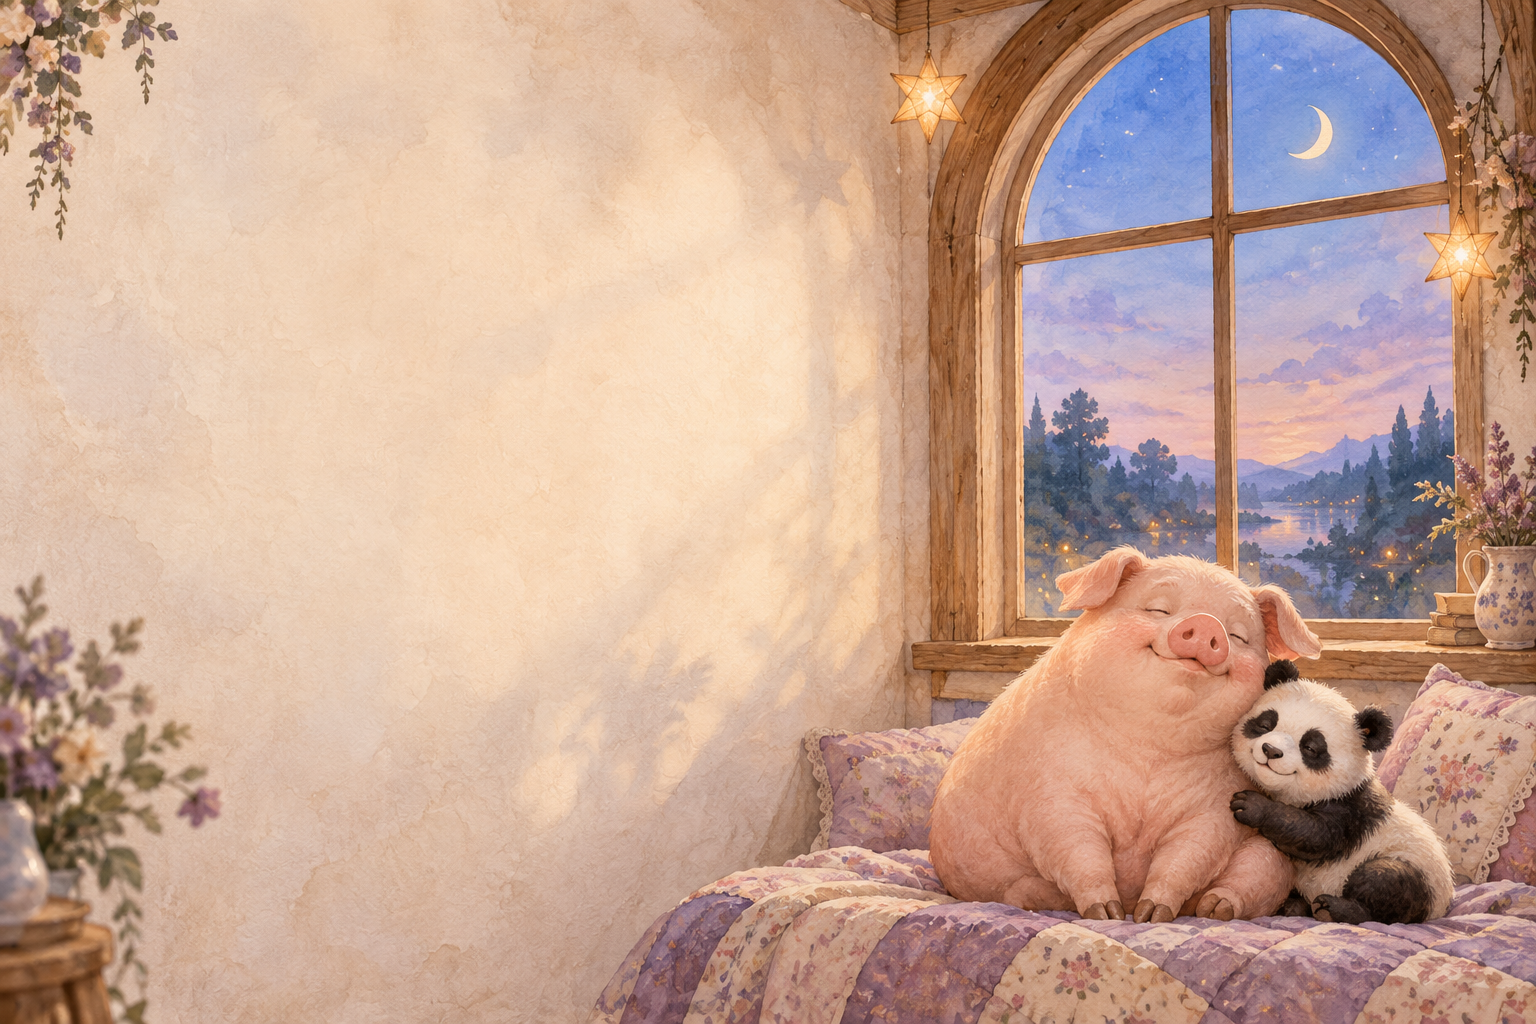
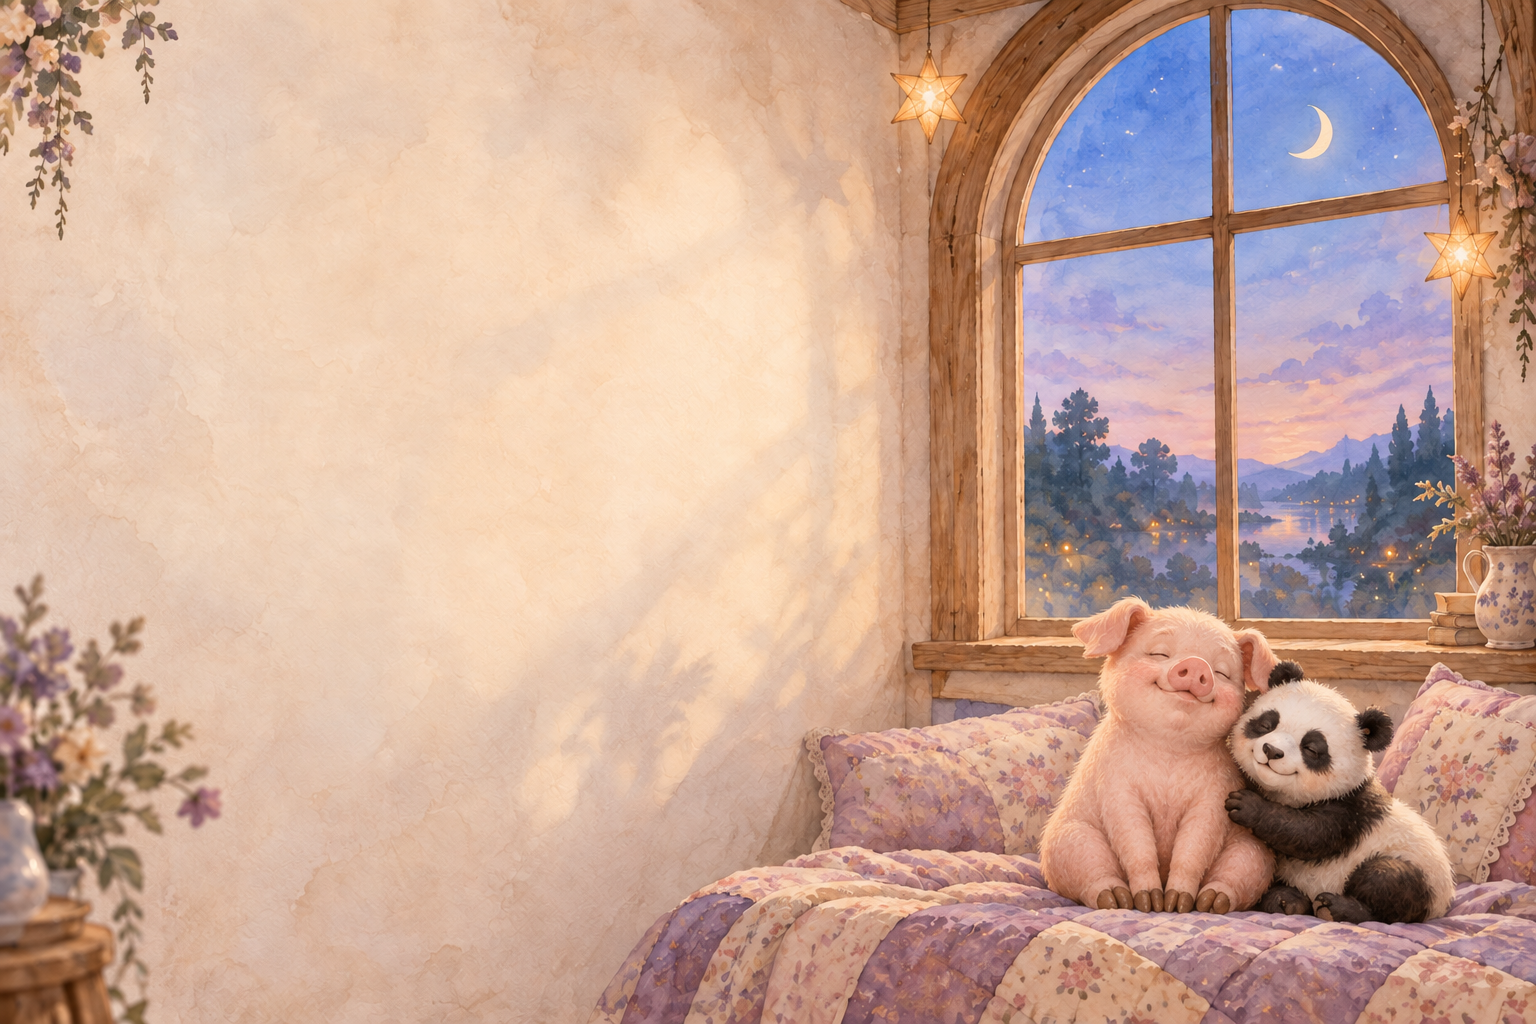
Give cottage pig natural panda-sized proportions

diff --git a/docs/assets/index-BJcxf96p.css b/docs/assets/index-BJcxf96p.css
@@ -1,0 +1,2 @@
+/*! tailwindcss v4.2.1 | MIT License | https://tailwindcss.com */
+@layer theme{:root,:host{--font-sans:ui-sans-serif, system-ui, sans-serif, "Apple Color Emoji", "Segoe UI Emoji", "Segoe UI Symbol", "Noto Color Emoji";--font-mono:ui-monospace, SFMono-Regular, Menlo, Monaco, Consolas, "Liberation Mono", "Courier New", monospace;--spacing:.25rem;--default-font-family:var(--font-sans);--default-mono-font-family:var(--font-mono)}}@layer base{*,:after,:before,::backdrop{box-sizing:border-box;border:0 solid;margin:0;padding:0}::file-selector-button{box-sizing:border-box;border:0 solid;margin:0;padding:0}html,:host{-webkit-text-size-adjust:100%;tab-size:4;line-height:1.5;font-family:var(--default-font-family,ui-sans-serif, system-ui, sans-serif, "Apple Color Emoji", "Segoe UI Emoji", "Segoe UI Symbol", "Noto Color Emoji");font-feature-settings:var(--default-font-feature-settings,normal);font-variation-settings:var(--default-font-variation-settings,normal);-webkit-tap-highlight-color:transparent}hr{height:0;color:inherit;border-top-width:1px}abbr:where([title]){-webkit-text-decoration:underline dotted;text-decoration:underline dotted}h1,h2,h3,h4,h5,h6{font-size:inherit;font-weight:inherit}a{color:inherit;-webkit-text-decoration:inherit;-webkit-text-decoration:inherit;-webkit-text-decoration:inherit;-webkit-text-decoration:inherit;text-decoration:inherit}b,strong{font-weight:bolder}code,kbd,samp,pre{font-family:var(--default-mono-font-family,ui-monospace, SFMono-Regular, Menlo, Monaco, Consolas, "Liberation Mono", "Courier New", monospace);font-feature-settings:var(--default-mono-font-feature-settings,normal);font-variation-settings:var(--default-mono-font-variation-settings,normal);font-size:1em}small{font-size:80%}sub,sup{vertical-align:baseline;font-size:75%;line-height:0;position:relative}sub{bottom:-.25em}sup{top:-.5em}table{text-indent:0;border-color:inherit;border-collapse:collapse}:-moz-focusring{outline:auto}progress{vertical-align:baseline}summary{display:list-item}ol,ul,menu{list-style:none}img,svg,video,canvas,audio,iframe,embed,object{vertical-align:middle;display:block}img,video{max-width:100%;height:auto}button,input,select,optgroup,textarea{font:inherit;font-feature-settings:inherit;font-variation-settings:inherit;letter-spacing:inherit;color:inherit;opacity:1;background-color:#0000;border-radius:0}::file-selector-button{font:inherit;font-feature-settings:inherit;font-variation-settings:inherit;letter-spacing:inherit;color:inherit;opacity:1;background-color:#0000;border-radius:0}:where(select:is([multiple],[size])) optgroup{font-weight:bolder}:where(select:is([multiple],[size])) optgroup option{padding-inline-start:20px}::file-selector-button{margin-inline-end:4px}::placeholder{opacity:1}@supports (not ((-webkit-appearance:-apple-pay-button))) or (contain-intrinsic-size:1px){::placeholder{color:currentColor}@supports (color:color-mix(in lab, red, red)){::placeholder{color:color-mix(in oklab, currentcolor 50%, transparent)}}}textarea{resize:vertical}::-webkit-search-decoration{-webkit-appearance:none}::-webkit-date-and-time-value{min-height:1lh;text-align:inherit}::-webkit-datetime-edit{display:inline-flex}::-webkit-datetime-edit-fields-wrapper{padding:0}::-webkit-datetime-edit{padding-block:0}::-webkit-datetime-edit-year-field{padding-block:0}::-webkit-datetime-edit-month-field{padding-block:0}::-webkit-datetime-edit-day-field{padding-block:0}::-webkit-datetime-edit-hour-field{padding-block:0}::-webkit-datetime-edit-minute-field{padding-block:0}::-webkit-datetime-edit-second-field{padding-block:0}::-webkit-datetime-edit-millisecond-field{padding-block:0}::-webkit-datetime-edit-meridiem-field{padding-block:0}::-webkit-calendar-picker-indicator{line-height:1}:-moz-ui-invalid{box-shadow:none}button,input:where([type=button],[type=reset],[type=submit]){appearance:button}::file-selector-button{appearance:button}::-webkit-inner-spin-button{height:auto}::-webkit-outer-spin-button{height:auto}[hidden]:where(:not([hidden=until-found])){display:none!important}}@layer components;@layer utilities{.visible{visibility:visible}.start{inset-inline-start:var(--spacing)}.end{inset-inline-end:var(--spacing)}.hidden{display:none}.italic{font-style:italic}.underline{text-decoration-line:underline}.antialiased{-webkit-font-smoothing:antialiased;-moz-osx-font-smoothing:grayscale}}:root{--ink:#443b4b;--accent:#a36b83;--reading-size:19px}*{box-sizing:border-box}body{color:var(--ink);background:#d7ccce;margin:0;font-family:Arial,Microsoft JhengHei,sans-serif}button,input,select,textarea{font:inherit}button,a,input,select,textarea{-webkit-tap-highlight-color:transparent}button{cursor:pointer;color:inherit}button:disabled{cursor:default;opacity:.45}button:focus-visible,a:focus-visible,input:focus-visible,textarea:focus-visible,select:focus-visible{outline-offset:4px;outline:2px solid #a36b83}button{background:0 0;border:0}a{color:inherit;text-decoration:none}.cottage{isolation:isolate;grid-template-columns:230px minmax(410px,690px) minmax(280px,1fr);gap:20px;min-height:100vh;padding:34px 30px 0;display:grid;position:relative}.scenery{z-index:-3;transform-origin:85% 80%;background:url(/qingjournal/cottage.png) 50%/cover no-repeat;transition:filter 2s;position:fixed;inset:0}.lightwash{z-index:-2;pointer-events:none;background:linear-gradient(90deg,#72608418,#0000);transition:background 2s;position:fixed;inset:0}.time-0 .scenery{filter:brightness(1.13)saturate(.85)}.time-0 .lightwash{background:linear-gradient(115deg,#fce1d533,#efafbb33)}.time-1 .scenery{filter:brightness(1.22)saturate(.9)}.time-1 .lightwash{background:linear-gradient(115deg,#fff5c644,#90dce52b)}.time-2 .scenery{filter:sepia(.15)saturate(1.25)}.time-2 .lightwash{background:linear-gradient(115deg,#d99c3c22,#ed926841)}.time-3 .scenery{filter:brightness(.7)saturate(.8)}.time-3 .lightwash{background:linear-gradient(115deg,#5b456225,#34468642)}.season-0{--accent:#a86b87}.season-1{--accent:#668d81}.season-2{--accent:#a17a56}.season-3{--accent:#7f84ad}.weather{pointer-events:none;z-index:-1;width:34%;height:65%;position:fixed;top:0;right:0;overflow:hidden}.weather i{color:#ffe5ed;opacity:.7;font-size:24px;font-style:normal;animation:linear infinite drift;position:absolute;top:-30px}.season-1 .weather i{color:#ffffad;text-shadow:0 0 9px #fff793;font-size:34px}.season-2 .weather i{color:#efb777}.season-3 .weather i{color:#fff}@keyframes drift{0%{transform:translateY(-30px)rotate(0)}to{transform:translate(40px,75vh)rotate(180deg)}}.sidebar{-webkit-backdrop-filter:blur(12px);backdrop-filter:blur(12px);background:#f9f6f4dd;border:1px solid #fff8;border-radius:18px 18px 0 0;flex-direction:column;min-height:calc(100vh - 34px);padding:28px 16px 24px;display:flex}.brand{letter-spacing:.08em;white-space:nowrap;align-items:center;gap:10px;font-family:Georgia,PMingLiU,serif;font-size:27px;display:flex}.brand>span{color:#8b7c99;font-size:40px}.subtitle{color:#9a8798;letter-spacing:.17em;margin:8px 0 28px 4px;font-size:12px}.search{background:#ffffff8c;border:1px solid #c9bccd;border-radius:30px;align-items:center;gap:7px;padding:9px 12px;display:flex}.search input{background:0 0;border:0;outline:none;width:100%;min-width:0;font-size:14px}.search>span{font-size:23px}.search button{padding:0}.month{text-align:center;margin:27px 0 15px;font-size:16px}.month>span{letter-spacing:.2em;color:#a597a5;margin-top:8px;font-size:10px;display:block}.calendar{text-align:center;grid-template-columns:repeat(7,1fr);gap:3px;margin-bottom:27px;display:grid}.calendar span,.calendar button{place-items:center;height:26px;padding:0;font-size:12px;display:grid}.calendar .weekday{color:#958b9c;margin-bottom:4px}.calendar button:disabled{opacity:.48}.calendar .has-entry{background:#fff8fc;border-radius:50%;font-weight:700}.calendar .chosen{background:var(--accent);color:#fff}.sidebar nav{gap:7px;display:grid}.sidebar nav button{text-align:left;border-radius:9px;align-items:center;gap:12px;padding:12px 10px;font-size:14px;display:flex}.sidebar nav .active{color:#74475e;background:#e8d8e1}.sidebar nav small{color:var(--accent);margin-left:auto}.sidebar-bottom{text-align:center;margin-top:auto;padding-top:60px}.tiny-star{color:var(--accent);font-size:30px}.sidebar-bottom p{color:#8e7c89;letter-spacing:.08em;font-family:Georgia,PMingLiU,serif;font-size:16px;line-height:1.9}.demo-label{letter-spacing:.12em;color:#a798a3;font-size:10px}.journal{background:#fffdf8f7;border:1px solid #fff9;border-radius:18px 18px 0 0;min-width:0;padding:0 42px;box-shadow:0 12px 60px #503b5520}.journal-toolbar{color:#a397a5;border-bottom:1px solid #e8dfe5;justify-content:space-between;align-items:center;padding:27px 0 23px;display:flex}.journal-toolbar>span{letter-spacing:.19em;font-size:10px}.journal-toolbar i{color:#bd9d6b;margin-left:10px;font-size:17px;font-style:normal}.journal-toolbar button{padding:5px 7px;font-family:Georgia,serif;font-size:16px}.entry{padding-top:42px}.entry header{align-items:baseline;gap:15px;display:flex}.entry h1{letter-spacing:.06em;margin:0;font-family:Georgia,PMingLiU,serif;font-size:29px;font-weight:400}.entry header>span{color:#a79da8;font-size:12px}.entry-body{font-family:Georgia,PMingLiU,serif;font-size:var(--reading-size);white-space:pre-wrap;overflow-wrap:anywhere;color:#493e4b;letter-spacing:.02em;margin:30px 0 24px;line-height:2.2}.entry-note{color:#a395a0;margin:26px 0;font-family:Georgia,PMingLiU,serif;font-size:14px}.entry-actions{gap:20px;margin:22px 0 10px;display:flex}.entry-actions button{color:#9c8f9d;align-items:center;gap:7px;padding:3px 0;font-size:23px;display:flex}.entry-actions span{font-size:13px}.entry-actions .liked{color:#b7738c}.divider{color:#bdadb7;align-items:center;gap:15px;margin-top:36px;display:flex}.divider:before,.divider:after{content:"";background:#ded4dc;flex:1;height:1px}.divider span{font-size:24px}.comments{background:#f2edf0;border-radius:12px;margin-top:18px;padding:17px}.local-note{color:#8e7d8b;margin-top:0;font-size:12px;line-height:1.6}.comments textarea{resize:vertical;background:#fffafc;border:1px solid #dacdd5;border-radius:7px;width:100%;min-height:90px;padding:12px;font-size:16px}.comments form>button{background:var(--accent);color:#fff;border-radius:7px;margin:10px 0 0 auto;padding:9px 15px;font-size:14px;display:block}.comment{border-bottom:1px solid #ded4dc;margin-bottom:13px;padding:8px 0}.comment>span{color:var(--accent);font-size:13px}.comment time{color:#998c99;margin-top:5px;font-size:11px;display:block}.comment p{white-space:pre-wrap;overflow-wrap:anywhere;font-size:16px;line-height:1.7}.journal-footer{text-align:center;color:#a69aa4;padding:35px 0;font-size:12px;line-height:1.9}.journal-footer [role=alert]{color:#9c344d}.room{flex-direction:column;justify-content:space-between;align-self:start;min-width:0;height:calc(100vh - 54px);display:flex;position:sticky;top:34px}.room-caption{color:#fff9ed;text-shadow:0 2px 12px #4b3e64;text-align:center;margin-top:30px}.room-caption>span{letter-spacing:.22em;font-size:11px}.room-caption p{letter-spacing:.08em;margin-top:13px;font-family:Georgia,PMingLiU,serif;font-size:22px}.scene-control{-webkit-backdrop-filter:blur(15px);backdrop-filter:blur(15px);background:#fffaf0e8;border:1px solid #fff9;border-radius:14px;margin-bottom:12px;padding:7px 10px;box-shadow:0 6px 24px #43364925}.scene-toggle{justify-content:space-between;align-items:center;gap:8px;width:100%;padding:10px 1px;font-size:13px;display:flex}.scene-toggle>span:last-child{color:#9b8392;font-size:12px}.settings{border-top:1px solid #dacdd6;gap:12px;padding:15px 3px 4px;display:grid}.settings label{justify-content:space-between;align-items:center;gap:10px;font-size:14px;display:flex}.settings select{background:#fff9;border:1px solid #d6c6d2;border-radius:5px;padding:5px 10px}.settings .check{justify-content:flex-start;font-size:13px}.settings input{accent-color:var(--accent)}.settings p{color:#968293;margin:0;font-size:11px}.pet-area{width:100%;height:31%;position:absolute;top:54%}.pet-hit{border-radius:45%;height:100%;transition:box-shadow .3s;position:absolute;top:0}.pet-hit:hover{box-shadow:inset 0 0 30px #fff6}.pet-hit.pig{width:57%;left:0}.pet-hit.panda{width:40%;right:0}.pet-message{opacity:0;text-align:center;pointer-events:none;background:#fffaf5ed;border-radius:20px;padding:12px;font-size:14px;transition:all .3s;position:absolute;top:-25%;left:0;right:0;transform:translateY(6px)}.pet-message.show{opacity:1;transform:translateY(0)}.pet-label{text-align:center;color:#fff9f0;text-shadow:0 1px 5px #342439;font-size:12px;position:absolute;bottom:-32px;left:0;right:0}.scenery.stir{animation:.7s ease-in-out 2 snuggle}@keyframes snuggle{50%{transform:scale(1.012)rotate(.15deg)}}.empty{text-align:center;padding:70px 0}.empty h2{font-size:22px;font-weight:400}.empty p{color:#9a8594}.empty button{color:var(--accent);text-decoration:underline}.mobile-brand{display:none}@media (width>=1500px){.cottage{grid-template-columns:250px minmax(480px,740px) minmax(320px,1fr);gap:25px;padding-left:4vw}.journal{padding:0 58px}}@media (width<=1100px){.cottage{grid-template-columns:190px minmax(350px,1fr) 250px;gap:12px;padding:20px 15px 0}.sidebar{padding:24px 12px}.brand{font-size:23px}.journal{padding:0 27px}.entry-body{font-size:calc(var(--reading-size) - 1px)}.room-caption p{font-size:18px}}@media (width<=850px){.cottage{grid-template-columns:180px minmax(0,1fr);padding:20px 18px 0}.room{grid-area:1/1/auto/-1;height:290px;display:block;position:relative;top:0}.room-caption{text-align:left;margin:0;position:absolute;top:20px;left:10px}.scene-control{z-index:4;width:250px;position:absolute;top:0;right:0}.pet-area{width:46%;height:48%;top:39%;left:50%}.scenery{background-position:72%}.sidebar{min-height:calc(100vh - 330px)}.journal{border-radius:16px 16px 0 0}.weather{width:60%}.pet-label{bottom:-20px}.room-caption p{font-size:20px}}@media (width<=580px){.cottage{padding:0 12px;display:block}.mobile-brand{z-index:3;color:#fff;text-shadow:0 1px 8px #493744;justify-content:space-between;align-items:center;height:62px;font-family:Georgia,PMingLiU,serif;font-size:25px;display:flex;position:relative}.mobile-brand span{font-size:12px}.sidebar{border-radius:14px;min-height:0;margin-bottom:12px;padding:14px}.sidebar .brand,.sidebar .subtitle,.sidebar .month,.sidebar .calendar,.sidebar-bottom{display:none}.sidebar nav{gap:5px;margin-top:9px;display:flex;overflow:auto}.sidebar nav button{white-space:nowrap;gap:5px;padding:9px;font-size:12px}.sidebar nav small{display:none}.journal{padding:0 23px}.journal-toolbar{padding:18px 0}.entry{padding-top:28px}.entry h1{font-size:26px}.entry-body{margin-top:24px;line-height:2.1}.room{height:330px;margin-top:15px}.room-caption{top:10px}.room-caption p{font-size:18px}.scene-control{width:100%;margin:0;top:auto;bottom:0}.settings{background:#fff9f3;border-radius:12px;padding:17px;position:absolute;bottom:50px;left:0;right:0;box-shadow:0 -5px 20px #57455233}.pet-area{width:60%;height:42%;top:30%;left:35%}.scenery{background-position:75%}.weather{width:100%;height:50%}.journal-footer{padding:25px 0}.pet-label{font-size:11px}}@media (prefers-reduced-motion:reduce){*,:before,:after{transition:none!important;animation:none!important}}.mode-switch{border:1px solid #d8c8d5;border-radius:9px;gap:3px;padding:3px;display:flex}.journal-toolbar .mode-switch button{border-radius:6px;padding:7px 15px;font-family:inherit;font-size:14px}.mode-switch button[aria-pressed=true]{color:#74475e;background:#e8d8e1}.month label{color:#8c7988;gap:8px;font-size:12px;display:grid}.month input{color:#55455a;background:0 0;border:0;border-bottom:1px solid #dfd2dc;width:100%;padding:6px;font-size:15px}.date-create{border-bottom:1px solid #e8dfe5;flex-wrap:wrap;align-items:end;gap:12px;padding:25px 0;display:flex}.date-create label{color:#8e7c89;gap:8px;font-size:13px;display:grid}.date-create input{color:inherit;background:#fff9fc;border:1px solid #d8c8d5;border-radius:7px;min-width:0;padding:8px;font-size:16px}.date-create>button,.link-form>button{color:#74475e;background:#e8d8e1;border-radius:7px;padding:10px 13px;font-size:14px}.writer-header{flex-wrap:wrap;justify-content:space-between;align-items:center;gap:10px;padding:28px 0 20px;display:flex}.writer-header>div{align-items:baseline;gap:12px;display:flex}.writer-header h1{margin:0;font-family:Georgia,PMingLiU,serif;font-size:27px;font-weight:400}.writer-header>div span{color:#998699;font-size:12px}.save-indicator{color:#7e8878;max-width:100%;font-size:12px;line-height:1.7}.format-bar{-webkit-backdrop-filter:blur(10px);backdrop-filter:blur(10px);z-index:2;background:#f6eff5f5;border:1px solid #e4d7e1;border-radius:9px;flex-wrap:wrap;gap:4px;padding:8px;display:flex;position:sticky;top:0}.format-bar button{border-radius:5px;min-width:32px;min-height:35px;padding:5px 8px;font-size:14px}.format-bar button[aria-pressed=true]{color:#64405e;background:#d6bfd1}.format-bar button:hover{background:#e4d5df}.word-editor{min-height:380px;font-family:Georgia,PMingLiU,serif;font-size:var(--reading-size);overflow-wrap:anywhere;white-space:pre-wrap;outline:none;padding:24px 3px;line-height:2.1}.word-editor p,.rich-text p{min-height:1.7em;margin:0}.word-editor h2,.rich-text h2{margin:1em 0 .5em;font-size:1.35em;font-weight:600}.word-editor h3,.rich-text h3{font-size:1.15em;font-weight:600}.word-editor ul,.rich-text ul{padding-left:1.5em;list-style:outside}.word-editor ol,.rich-text ol{padding-left:1.5em;list-style:decimal}.word-editor blockquote,.rich-text blockquote{color:#8a7084;border-left:3px solid #bea6b8;margin:15px 0;padding-left:18px}.word-editor a,.rich-text a{color:#9c5c87;overflow-wrap:anywhere;text-decoration:underline}.word-editor pre,.rich-text pre{white-space:pre-wrap;background:#f0e8ee;border-radius:6px;padding:10px}.word-editor:focus-visible{outline-offset:5px;border-radius:4px;outline:1px solid #bba3b6}.writer-footer{color:#998b96;border-top:1px solid #e8dfe5;justify-content:space-between;gap:10px;padding:15px 0;font-size:12px;display:flex}.writing-hint{color:#9b8b97;margin-top:22px;font-size:12px;line-height:1.8}.link-form{flex-wrap:wrap;gap:8px;padding:14px 0;display:flex}.link-form label{flex-basis:100%;gap:5px;font-size:13px;display:grid}.link-form input{background:#fff;border:1px solid #d6c4d3;border-radius:6px;width:100%;padding:9px;font-size:16px}.link-form [role=alert]{color:#a24963;font-size:13px}.rich-text{white-space:normal}.writer-loading{color:#998a96;padding:40px 0}@media (width<=580px){.sidebar .month{margin:8px 0;display:block}.sidebar .month label{align-items:center;display:flex}.sidebar .month input{width:150px}.writer-header{flex-direction:column;align-items:start}.format-bar{gap:2px;padding:5px}.format-bar button{padding:5px 7px}.writer-footer{flex-wrap:wrap}.word-editor{min-height:340px}.journal-toolbar .mode-switch button{padding:6px 12px}}.password-screen{background:linear-gradient(#30243870,#30243890),url(/qingjournal/assets/cottage-DCHgAFMH.png) 72%/cover fixed;place-items:center;min-height:100dvh;padding:24px;display:grid}.password-card{background:#fffaf5f5;border:1px solid #ffffffa0;border-radius:22px;gap:14px;width:min(100%,420px);padding:36px;display:grid;box-shadow:0 20px 70px #251b3955}.password-symbol{color:#936d88;text-align:center;font-size:44px}.password-card h1{text-align:center;letter-spacing:.12em;margin:0;font:32px Georgia,PMingLiU,serif}.password-card>p{text-align:center;color:#786274;margin:0 0 12px;line-height:1.7}.password-card label{font-size:16px}.password-card input{background:#fff;border:1px solid #bc9db2;border-radius:8px;width:100%;padding:13px}.unlock-button{color:#fff;background:#81546e;border-radius:8px;padding:14px}.owner-switch{padding:10px;font-size:14px;text-decoration:underline}.password-card small{text-align:center;color:#796778;font-size:14px;line-height:1.7}.password-card .password-error{color:#a0233c;overflow-wrap:anywhere;margin:0}.lock-button{padding:10px;text-decoration:underline}.draft-warning{background:#f8e7cd;border-radius:8px;margin:16px 0;padding:16px;line-height:1.8}.draft-warning button{border:1px solid #a17a56;border-radius:6px;margin:5px;padding:8px}.journal-toolbar{flex-wrap:wrap;gap:10px}.scenery{background-image:url(/qingjournal/assets/cottage-DCHgAFMH.png)}

diff --git a/docs/index.html b/docs/index.html
@@ -8,8 +8,8 @@
     <meta http-equiv="Content-Security-Policy" content="default-src 'self'; script-src 'self'; style-src 'self' 'unsafe-inline'; img-src 'self' data:; frame-src https://script.google.com https://*.googleusercontent.com; connect-src 'self'; object-src 'none'; base-uri 'self'; form-action 'none'" />
     <link rel="icon" href="/qingjournal/favicon.svg" />
     <title>日記小屋｜留一盞燈，等你來</title>
-    <script type="module" crossorigin src="/qingjournal/assets/index-BwojSJhW.js"></script>
-    <link rel="stylesheet" crossorigin href="/qingjournal/assets/index-BFwea7_V.css">
+    <script type="module" crossorigin src="/qingjournal/assets/index-Ds2BbqSV.js"></script>
+    <link rel="stylesheet" crossorigin href="/qingjournal/assets/index-BJcxf96p.css">
   </head>
   <body><div id="root"></div></body>
 </html>
